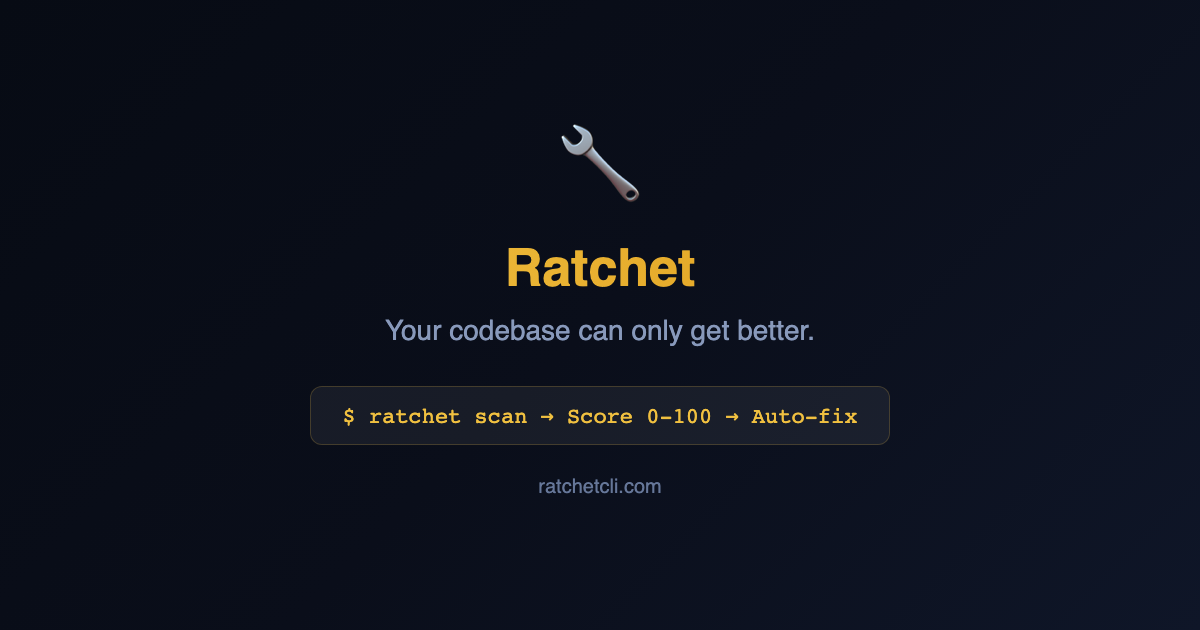
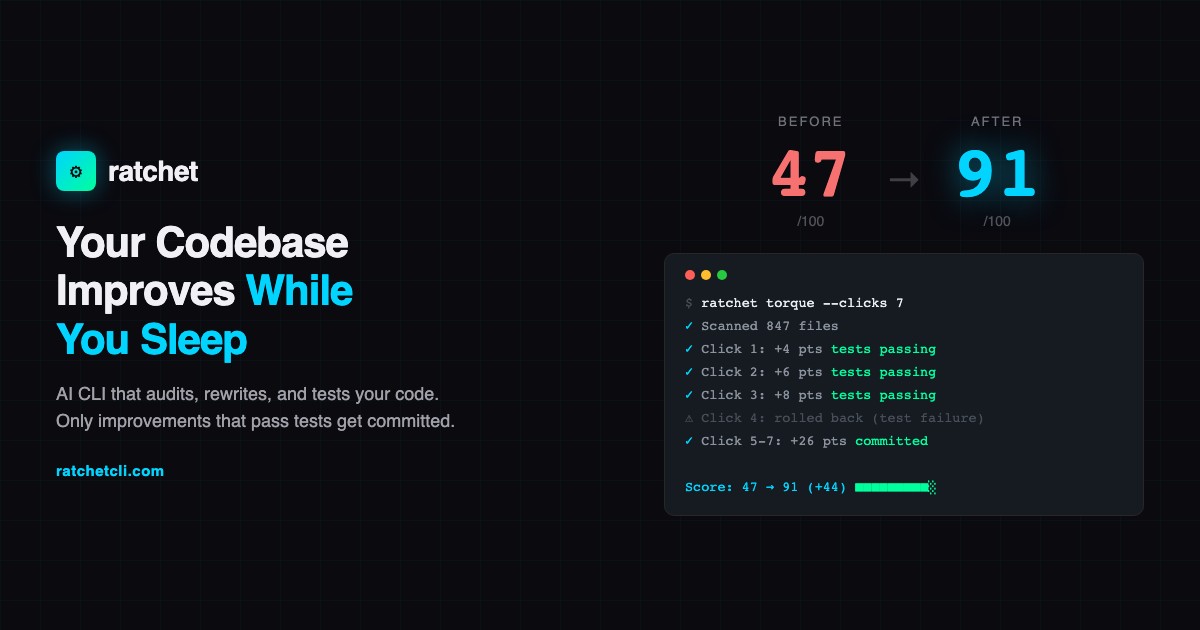
feat: new OG meta tags + OG image (dark terminal + score jump)

diff --git a/docs/landing/og-image.html b/docs/landing/og-image.html
@@ -1,0 +1,224 @@
+<!DOCTYPE html>
+<html>
+<head>
+<meta charset="UTF-8">
+<style>
+  * { margin: 0; padding: 0; box-sizing: border-box; }
+  @import url('https://fonts.googleapis.com/css2?family=JetBrains+Mono:wght@400;700&family=Inter:wght@400;600;700;800&display=swap');
+
+  body {
+    width: 1200px;
+    height: 630px;
+    background: #0a0a0f;
+    font-family: 'Inter', sans-serif;
+    color: #f0f0f5;
+    overflow: hidden;
+    position: relative;
+  }
+
+  /* Subtle grid */
+  body::before {
+    content: '';
+    position: absolute;
+    inset: 0;
+    background-image:
+      linear-gradient(rgba(0,212,255,0.03) 1px, transparent 1px),
+      linear-gradient(90deg, rgba(0,212,255,0.03) 1px, transparent 1px);
+    background-size: 40px 40px;
+  }
+
+  .layout {
+    position: relative;
+    z-index: 1;
+    display: flex;
+    height: 100%;
+    padding: 48px 56px;
+    gap: 48px;
+  }
+
+  .left {
+    flex: 1;
+    display: flex;
+    flex-direction: column;
+    justify-content: center;
+  }
+
+  .logo {
+    display: flex;
+    align-items: center;
+    gap: 12px;
+    margin-bottom: 28px;
+  }
+
+  .logo-icon {
+    width: 40px;
+    height: 40px;
+    background: linear-gradient(135deg, #00d4ff, #00ff9d);
+    border-radius: 8px;
+    display: flex;
+    align-items: center;
+    justify-content: center;
+    font-size: 20px;
+    font-weight: 700;
+    color: #0a0a0f;
+    box-shadow: 0 0 24px rgba(0,212,255,0.4);
+  }
+
+  .logo-text {
+    font-size: 28px;
+    font-weight: 800;
+    letter-spacing: -0.5px;
+  }
+
+  .headline {
+    font-size: 42px;
+    font-weight: 800;
+    line-height: 1.15;
+    letter-spacing: -1px;
+    margin-bottom: 16px;
+  }
+
+  .headline span { color: #00d4ff; }
+
+  .subline {
+    font-size: 18px;
+    color: #a1a1aa;
+    line-height: 1.5;
+    max-width: 420px;
+  }
+
+  .url {
+    margin-top: 28px;
+    font-size: 15px;
+    color: #00d4ff;
+    font-weight: 600;
+    letter-spacing: 0.5px;
+  }
+
+  .right {
+    width: 480px;
+    display: flex;
+    flex-direction: column;
+    justify-content: center;
+    gap: 24px;
+  }
+
+  /* Score transformation */
+  .scores {
+    display: flex;
+    align-items: center;
+    justify-content: center;
+    gap: 32px;
+  }
+
+  .score-box {
+    text-align: center;
+  }
+
+  .score-label {
+    font-size: 13px;
+    text-transform: uppercase;
+    letter-spacing: 2px;
+    color: #71717a;
+    margin-bottom: 8px;
+  }
+
+  .score-num {
+    font-family: 'JetBrains Mono', monospace;
+    font-size: 72px;
+    font-weight: 700;
+    line-height: 1;
+  }
+
+  .score-num.before { color: #f87171; }
+  .score-num.after { color: #00d4ff; text-shadow: 0 0 32px rgba(0,212,255,0.5); }
+
+  .score-arrow {
+    font-size: 36px;
+    color: #3f3f46;
+    margin-top: 16px;
+  }
+
+  .score-sub {
+    font-size: 14px;
+    color: #52525b;
+    margin-top: 4px;
+  }
+
+  /* Terminal */
+  .terminal {
+    background: #161b22;
+    border: 1px solid #27272a;
+    border-radius: 10px;
+    padding: 16px 20px;
+    font-family: 'JetBrains Mono', monospace;
+    font-size: 13.5px;
+    line-height: 1.7;
+  }
+
+  .term-header {
+    display: flex;
+    gap: 6px;
+    margin-bottom: 12px;
+  }
+
+  .term-dot {
+    width: 10px;
+    height: 10px;
+    border-radius: 50%;
+  }
+  .term-dot.red { background: #ff5f57; }
+  .term-dot.yellow { background: #febc2e; }
+  .term-dot.green { background: #28c840; }
+
+  .term-line { color: #8b949e; }
+  .term-cmd { color: #e6edf3; }
+  .term-success { color: #00d4ff; }
+  .term-pass { color: #00ff9d; }
+  .term-dim { color: #484f58; }
+</style>
+</head>
+<body>
+  <div class="layout">
+    <div class="left">
+      <div class="logo">
+        <div class="logo-icon">⚙</div>
+        <div class="logo-text">ratchet</div>
+      </div>
+      <div class="headline">Your Codebase<br>Improves <span>While<br>You Sleep</span></div>
+      <div class="subline">AI CLI that audits, rewrites, and tests your code. Only improvements that pass tests get committed.</div>
+      <div class="url">ratchetcli.com</div>
+    </div>
+    <div class="right">
+      <div class="scores">
+        <div class="score-box">
+          <div class="score-label">Before</div>
+          <div class="score-num before">47</div>
+          <div class="score-sub">/100</div>
+        </div>
+        <div class="score-arrow">→</div>
+        <div class="score-box">
+          <div class="score-label">After</div>
+          <div class="score-num after">91</div>
+          <div class="score-sub">/100</div>
+        </div>
+      </div>
+      <div class="terminal">
+        <div class="term-header">
+          <div class="term-dot red"></div>
+          <div class="term-dot yellow"></div>
+          <div class="term-dot green"></div>
+        </div>
+        <div class="term-line"><span class="term-dim">$</span> <span class="term-cmd">ratchet torque --clicks 7</span></div>
+        <div class="term-line"><span class="term-success">✓</span> Scanned 847 files</div>
+        <div class="term-line"><span class="term-success">✓</span> Click 1: +4 pts <span class="term-pass">tests passing</span></div>
+        <div class="term-line"><span class="term-success">✓</span> Click 2: +6 pts <span class="term-pass">tests passing</span></div>
+        <div class="term-line"><span class="term-success">✓</span> Click 3: +8 pts <span class="term-pass">tests passing</span></div>
+        <div class="term-line"><span class="term-dim">⚠ Click 4: rolled back (test failure)</span></div>
+        <div class="term-line"><span class="term-success">✓</span> Click 5-7: +26 pts <span class="term-pass">committed</span></div>
+        <div class="term-line"><br><span class="term-success">Score: 47 → 91 (+44)</span> <span class="term-pass">■■■■■■■■■░</span></div>
+      </div>
+    </div>
+  </div>
+</body>
+</html>

diff --git a/docs/landing/index.html b/docs/landing/index.html
@@ -4,15 +4,20 @@
     <meta charset="UTF-8">
     <meta name="viewport" content="width=device-width, initial-scale=1.0">
     <title>Ratchet — Stop shipping tech debt.</title>
-    <meta name="description" content="Ratchet is an AI-powered CLI that continuously improves your codebase. Score, fix, and visualize code quality — one click at a time." />
-    <meta property="og:title" content="Ratchet — Stop shipping tech debt." />
-    <meta property="og:description" content="AI-powered iterative code improvement. Analyze → Propose → Build → Test → Commit. Only improvements that pass tests are kept." />
+    <meta name="description" content="AI CLI that audits, rewrites, and tests your code. Only improvements that pass tests get committed. Your score can only go up." />
+    <meta property="og:title" content="Your Codebase Improves While You Sleep" />
+    <meta property="og:description" content="AI CLI that audits, rewrites, and tests your code. Only improvements that pass tests get committed. Your score can only go up." />
     <meta property="og:type" content="website" />
     <meta property="og:url" content="https://ratchetcli.com" />
     <meta property="og:image" content="https://ratchetcli.com/og-image.png" />
+    <meta property="og:image:width" content="1200" />
+    <meta property="og:image:height" content="630" />
+    <meta property="og:site_name" content="Ratchet" />
+    <meta name="theme-color" content="#0a0a0f" />
+    <meta name="color-scheme" content="dark" />
     <meta name="twitter:card" content="summary_large_image" />
-    <meta name="twitter:title" content="Ratchet — Stop shipping tech debt." />
-    <meta name="twitter:description" content="AI-powered CLI that scores your codebase and autonomously fixes it. One tested commit at a time." />
+    <meta name="twitter:title" content="Ratchet — Ship Cleaner Code. Automatically." />
+    <meta name="twitter:description" content="AI CLI that scores your codebase, autonomously fixes issues, and commits only what passes tests. Your repo improves one click at a time." />
     <meta name="twitter:image" content="https://ratchetcli.com/og-image.png" />
     <link rel="canonical" href="https://ratchetcli.com" />
     <link rel="preconnect" href="https://fonts.googleapis.com">